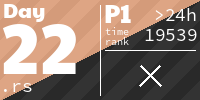
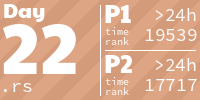
comments

diff --git a/src/day22.rs b/src/day22.rs
@@ -5,7 +5,7 @@ use crate::utils::*;
 // a sequence of 4 consecutive changes
 type Seq = (i8, i8, i8, i8);
 
-const SEQ_NOOP: i8 = -100;
+const SEQ_NOOP: i8 = -100; // anything outside of [-9, 9] is good...
 
 //--------------------------------------------------------------------------------
 // p1
@@ -35,11 +35,6 @@ fn compute_nx(secret_number: i64) -> i64 {
     // prune secret_number
     secret_number % 16777216
 }
-
-// fn find_sequence(&(a, b, c, d): &Seq, changes: &[i8]) -> Option<usize> {
-//     (0..changes.len() - 4)
-//         .find(|&i| changes[i] == a && changes[i + 1] == b && changes[i + 2] == c && changes[i + 3] == d)
-// }
 
 impl Puzzle {
     pub fn from_str(input: &str) -> Puzzle {

diff --git a/README.md b/README.md
@@ -1,6 +1,6 @@
 <!-- AOC TILES BEGIN -->
 <h1 align="center">
-  2024 - 43 ⭐ - Rust
+  2024 - 44 ⭐ - Rust
 </h1>
 <a href="src/day01.rs">
   <img src=".aoc_tiles/tiles/2024/01.png" width="161px">
